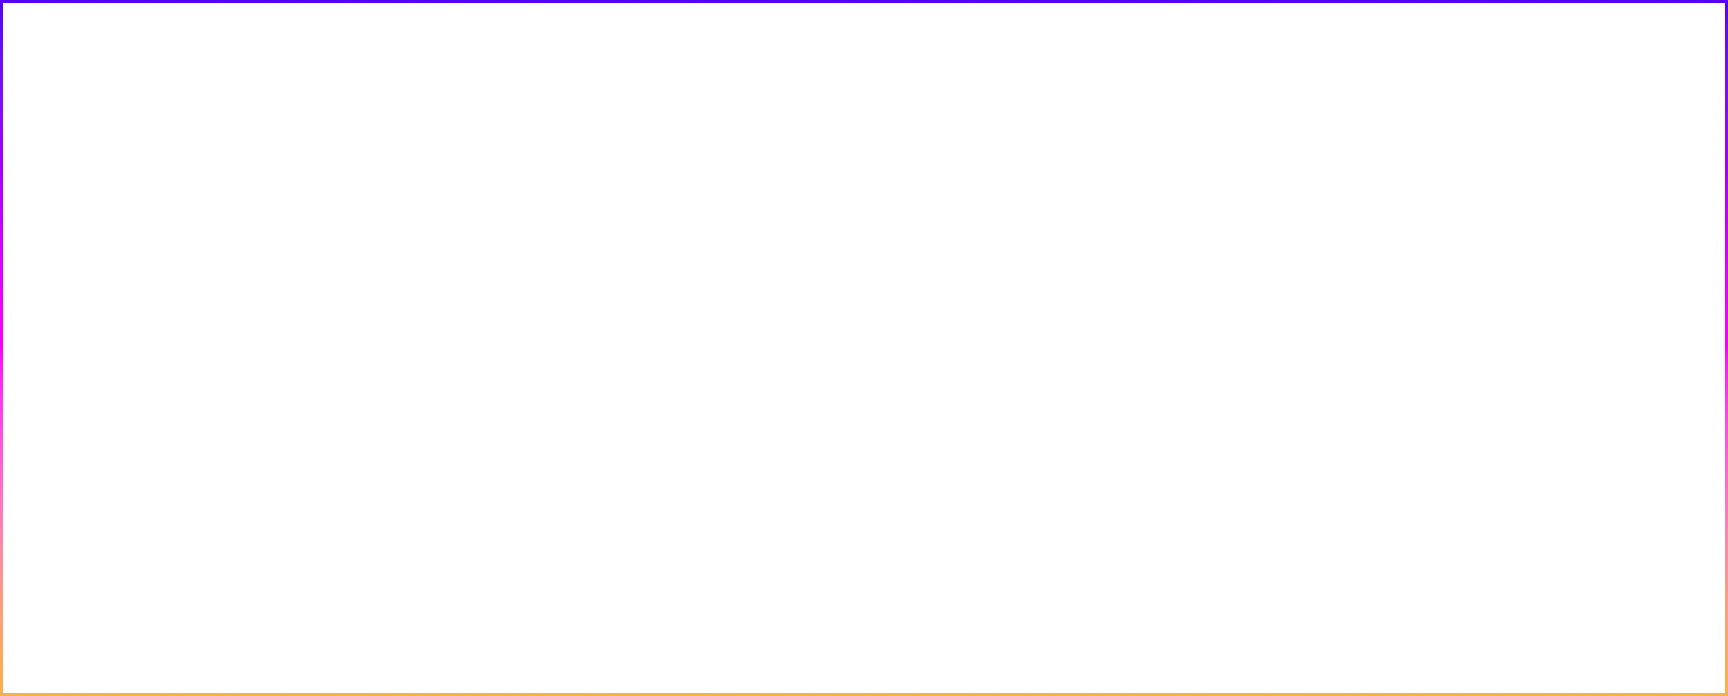
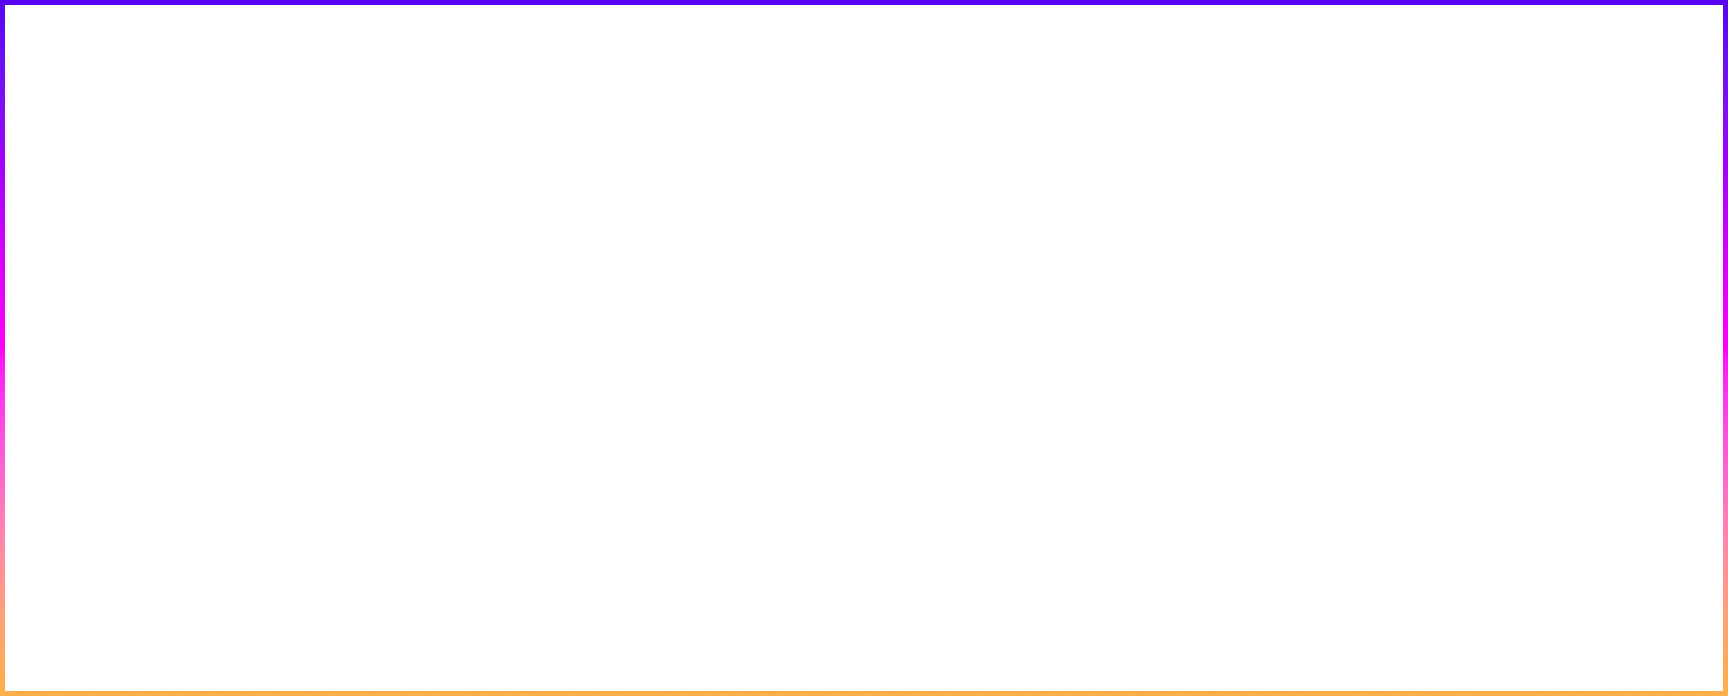
created the border overlay effect for the sections

diff --git a/pages/index.js b/pages/index.js
@@ -10,6 +10,7 @@ import {
   sistaKimsKitchen 
 } from '../components/constants';
 import useOnScreenPersist from '../hooks/useOnScreenPersist';
+import Link from "next/link";
 
 import {
   pastrami001, 
@@ -100,14 +101,15 @@ export default function Home() {
               <div className='flex flex-wrap'>
                 {/* This conditional ensures that the content will not render until in view */}
                 { isVisibleSec1 &&
-                  <div className={`w-full flex ${isLargeScreen && styles['sec-gradient-bg']} ${!isLargeScreen? 'flex-col' : ''}`}>
+                  <div className={`w-full flex ${isLargeScreen && styles['sec-gradient-bg-overlay']} sec-gradient-bg-overlay ${!isLargeScreen? 'flex-col' : ''}`}>
                     <div className={`${!isLargeScreen && 'flex items-center justify-around pl-4 pr-4'}`}>
-                      <Image src={pastrami001} alt="section image" className={`${isLargeScreen? `${styles['sec-left-img']}`: ' w-full'}`} />  
+                      <Image style={{maxWidth: '640px'}} src={pastrami001} alt="section image" className={`${isLargeScreen? `${styles['sec-left-img']}`: ' w-full'}`} />  
                     </div>
                     {/* <div style={{minHeight: '625px'}} className={`lg:ml-4 text-center flex flex-col items-center justify-center pl-4 pr-4 pb-4 ${!isLargeScreen && styles['sec-left-orange-bg']} ${!isLargeScreen && 'mt-10'}`}> */}
                     <div style={{minHeight: `${isLargeScreen? '625px' : ''}`, width: `fit-content`}} className={`lg:ml-4 lg:pl-4 lg:pr-10 lg:pb-4 lg:justify-center flex flex-col items-center  ${styles['sec-text']} ${!isLargeScreen && styles['sec-gradient-bg']} ${!isLargeScreen && 'mt-10 px-5 py-5'}`}>
                       <h2 className={`text-3xl font-bold mb-4 ${styles['sec-header']}`}>{sistaKimsKitchen}</h2>
                       <p className='text-xl text-center'>{loremIpsum01}</p>
+                      <Link href="/#" className={`${styles['sec-btn']}`} >Order Now</Link>
                     </div>
                   </div>
                 }
@@ -123,17 +125,18 @@ export default function Home() {
               classNames="fade-right"
               mountOnEnter
             >
-              <div  className='flex flex-wrap'>
+              <div  className='flex flex-wrap flex-row-reverse'>
                 {/* This conditional ensures that the content will not render until in view */}
                 { isVisibleSec2 &&
-                  <div className={`w-full flex ${isLargeScreen && styles['sec-gradient-bg']} ${!isLargeScreen? 'flex-col' : ''}`}>
+                  <div className={`w-full flex flex-row ${isLargeScreen && styles['sec-gradient-bg-overlay']} ${!isLargeScreen? 'flex-col' : ''}`}>
                     {/* <div style={{minHeight: '625px'}} className={`lg:mr-4 text-center flex flex-col items-center justify-center pl-4 pr-4 pb-4 ${!isLargeScreen && styles['sec-right-purple-bg']} ${!isLargeScreen && 'mt-10'}`}> */}
                     <div style={{minHeight: `${isLargeScreen? '625px' : ''}`, width: `fit-content`}} className={`lg:mr-4 lg:pl-10 lg:pr-4 lg:pb-4 lg:justify-center flex flex-col items-center ${styles['sec-text']} ${!isLargeScreen && styles['sec-gradient-bg']} ${!isLargeScreen && 'mt-10 order-2 px-5 py-5'}`}>
                       <h2 className={`text-3xl font-bold mb-4 ${styles['sec-header']}`}>{sistaKimsKitchen}</h2>
                       <p className='text-xl text-center'>{loremIpsum01}</p>
+                      <Link href="/#" className={`${styles['sec-btn']}`} >Order Now</Link>
                     </div>
                     <div className={`${!isLargeScreen && 'flex items-center justify-around pl-4 pr-4 order-1'}`}>
-                      <Image src={shrimp_poboy001} alt="section image" className={`${isLargeScreen? `${styles['sec-right-img']}`: ' w-full'}`} />  
+                      <Image style={{maxWidth: '640px'}} src={shrimp_poboy001} alt="section image" className={`${isLargeScreen? `${styles['sec-right-img']}`: ' w-full'}`} />  
                     </div>
                   </div>
                 }

diff --git a/styles/Home.module.css b/styles/Home.module.css
@@ -126,6 +126,18 @@
   font-weight: 700;
   letter-spacing: 1.5px;  /* Adjust this value to change the letter spacing */
 }
+
+.sec-btn{
+  margin-top: 2em;
+  margin-bottom: 1em;
+  border: solid 2px #fff;
+  color: #fff;
+  padding: 2px 5px;
+  text-transform: uppercase;
+  transition: ease-in-out 0.9s;
+
+}
+
 /* ================ Landing Sections (Colors and Shapes) ================ */
 
 .sec-left-orange{
@@ -193,7 +205,41 @@
   width: 100%;
   height: 100%;
   z-index: -50;
-  background-image: url('../components/Icons/BorderSVG.svg');
+  background-image: url('/images/shapes/brandGradientBorder.png');
+  background-repeat: no-repeat;
+  background-size: 98% 90%;
+  background-position: center;
+}
+
+.sec-gradient-bg-overlay {
+  position: relative !important;
+  width: 85%;
+  transition: width 0.5s ease-in-out;
+}
+
+@media (max-width: 1245px) {
+  .sec-gradient-bg-overlay {
+    width: 90%;
+  }
+}
+
+@media (max-width: 1165px) {
+  .sec-gradient-bg-overlay {
+    width: 100%;
+  }
+}
+
+
+
+.sec-gradient-bg-overlay::before {
+  content: "";
+  position: absolute;
+  top: 0;
+  left: 0;
+  width: 100%;
+  height: 100%;
+  z-index: 1;
+  background-image: url('/images/shapes/brandGradientBorder.png');
   background-repeat: no-repeat;
   background-size: 98% 90%;
   background-position: center;
@@ -202,6 +248,14 @@
 @media (max-width: 1024px) {
   .sec-gradient-bg::before {
     background-size: 97% 100%;
+    background-image: url('/images/shapes/brandGradientBorderMD.png');
+  }
+}
+
+@media (max-width: 768px) {
+  .sec-gradient-bg::before {
+    background-size: 97% 100%;
+    background-image: url('/images/shapes/brandGradientBorder.png');
   }
 }
 /* ================ Slider ================ */
